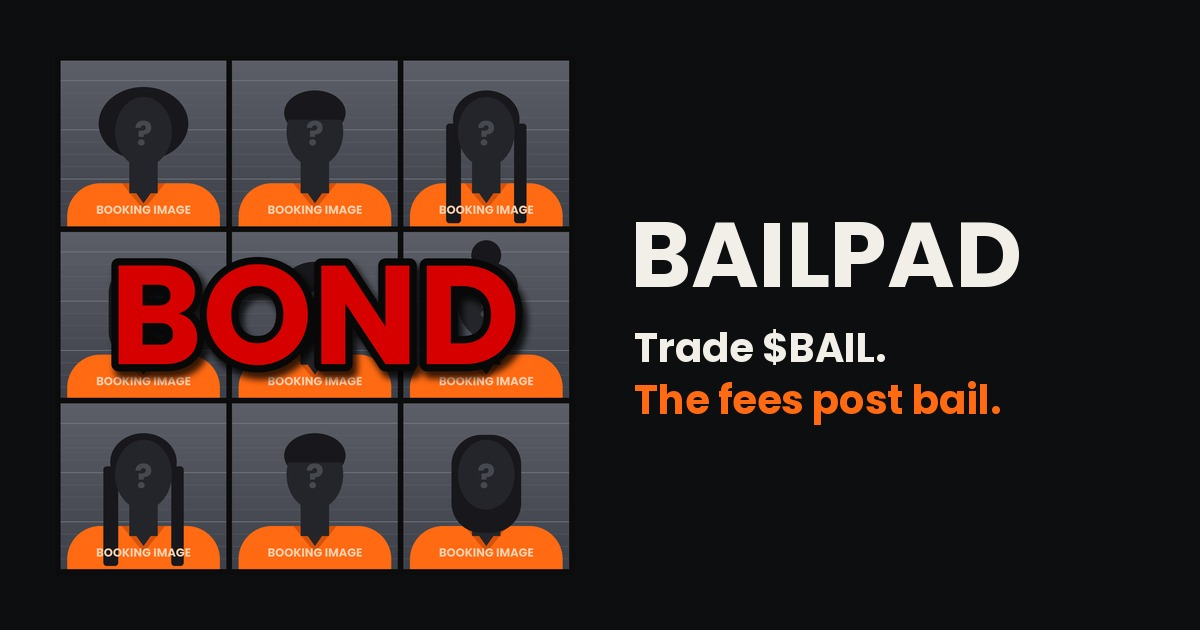
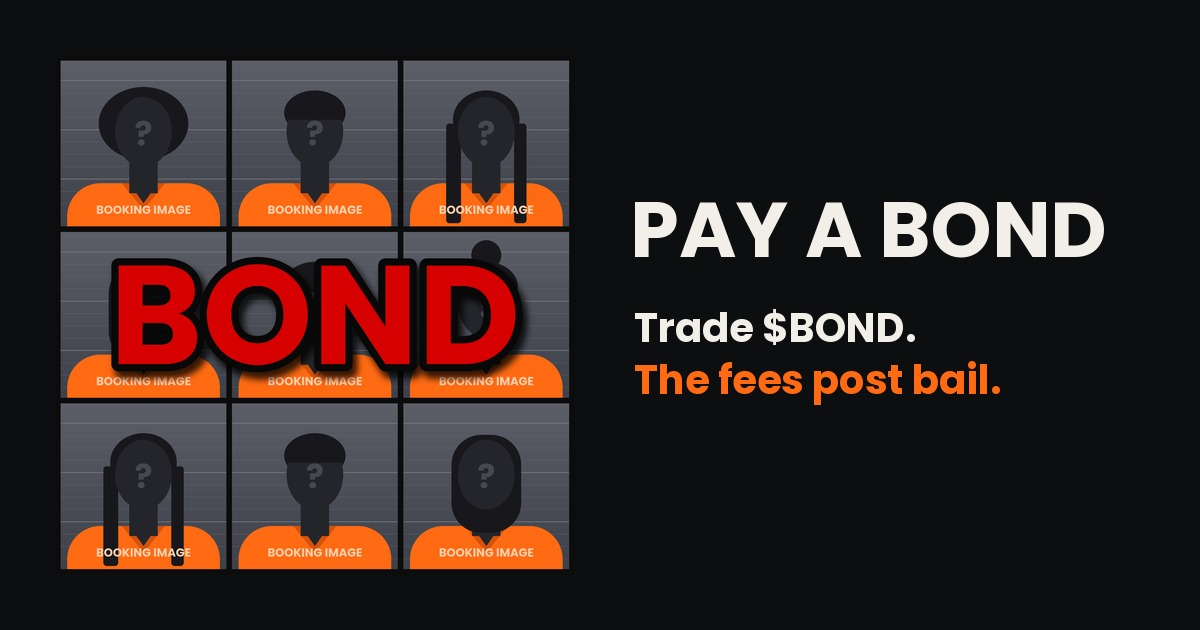
Add files via upload

Changed region(s): [[0.5242, 0.3016, 0.925, 0.4524], [0.5242, 0.4825, 0.8325, 0.6635]]

diff --git a/index.html b/index.html
@@ -3,10 +3,10 @@
 <head>
 <meta charset="utf-8">
 <meta name="viewport" content="width=device-width,initial-scale=1,viewport-fit=cover">
-<title>BailPad</title>
-<meta name="description" content="$BAIL creator fees post bail. Public wallet, every bond receipted.">
-<meta property="og:title" content="BailPad">
-<meta property="og:description" content="$BAIL creator fees post bail. Public wallet, every bond receipted.">
+<title>Pay A Bond</title>
+<meta name="description" content="$BOND creator fees post bail. Public wallet, every bond receipted.">
+<meta property="og:title" content="Pay A Bond">
+<meta property="og:description" content="$BOND creator fees post bail. Public wallet, every bond receipted.">
 <meta property="og:image" content="og.jpg">
 <meta name="twitter:card" content="summary_large_image">
 <link rel="icon" href="pfp.png">
@@ -160,9 +160,9 @@ footer p{max-width:70ch}
 
 <nav>
   <div class="wrap">
-    <a class="brand" href="#top"><img src="pfp.png" alt=""><b>BailPad</b></a>
-    <div class="navlinks"><a href="#how">How it works</a><a href="#receipts">Receipts</a><a href="#rules">Rules</a><a href="#fees">Fees</a><a href="#token">$BAIL</a></div>
-    <a class="btn primary" id="navbuy" href="#token">Buy $BAIL</a>
+    <a class="brand" href="#top"><img src="pfp.png" alt=""><b>Pay A Bond</b></a>
+    <div class="navlinks"><a href="#how">How it works</a><a href="#receipts">Receipts</a><a href="#rules">Rules</a><a href="#fees">Fees</a><a href="#token">$BOND</a></div>
+    <a class="btn primary" id="navbuy" href="#token">Buy $BOND</a>
   </div>
 </nav>
 
@@ -170,17 +170,17 @@ footer p{max-width:70ch}
   <div class="wrap herogrid">
     <div>
       <span class="eyebrow">Bail fund · Solana</span>
-      <h1>Trade $BAIL.<br><em>The fees post<br>bail.</em></h1>
-      <p class="lead">Every $BAIL creator fee lands in one public wallet. That wallet pays bonds for people stuck in jail over a few hundred dollars, and every payment gets a receipt here.</p>
-      <div class="cta"><a class="btn primary" id="herobuy" href="#token">Buy $BAIL</a><a class="btn line" href="#receipts">See receipts</a></div>
+      <h1>Trade $BOND.<br><em>The fees post<br>bail.</em></h1>
+      <p class="lead">Every $BOND creator fee lands in one public wallet. That wallet pays bonds for people stuck in jail over a few hundred dollars, and every payment gets a receipt here.</p>
+      <div class="cta"><a class="btn primary" id="herobuy" href="#token">Buy $BOND</a><a class="btn line" href="#receipts">See receipts</a></div>
       <div class="facts">
-        <div><b>100%</b><span>of creator fees to the bail wallet</span></div>
+        <div><b>100%</b><span>of creator fees to the bond wallet</span></div>
         <div><b>Public</b><span>wallet anyone can check</span></div>
         <div><b>Receipt</b><span>posted for every bond paid</span></div>
       </div>
     </div>
-    <article class="record" aria-label="Bail wallet">
-      <div class="rh"><span class="rid">BAIL WALLET</span><span class="pill" id="wState"><span class="dot"></span>Opens at launch</span></div>
+    <article class="record" aria-label="Bond wallet">
+      <div class="rh"><span class="rid">BOND WALLET · DEV FEES LAND HERE</span><span class="pill" id="wState"><span class="dot"></span>Opens at launch</span></div>
       <div class="stats">
         <div class="wide"><span>In the wallet now</span><b id="wBal">—</b><small id="wSol"></small></div>
         <div><span>Bonds paid</span><b id="wCount">—</b></div>
@@ -195,8 +195,8 @@ footer p{max-width:70ch}
   <div class="wrap">
     <div class="sechead"><span class="eyebrow">How it works</span><h2>From trade to release</h2></div>
     <ol class="steps">
-      <li><span class="n">STEP 01</span><h3>People trade $BAIL</h3><p>Every buy and sell on pump.fun pays a creator fee.</p></li>
-      <li><span class="n">STEP 02</span><h3>Fees hit the bail wallet</h3><p>100% of creator fees go to one public Solana wallet.</p></li>
+      <li><span class="n">STEP 01</span><h3>People trade $BOND</h3><p>Every buy and sell on pump.fun pays a creator fee.</p></li>
+      <li><span class="n">STEP 02</span><h3>Fees hit the bond wallet</h3><p>100% of creator fees go to one public Solana wallet.</p></li>
       <li><span class="n">STEP 03</span><h3>A bond gets paid</h3><p>The wallet pays the bond through the clerk of court or a licensed bondsman.</p></li>
       <li><span class="n">STEP 04</span><h3>The receipt goes up</h3><p>Date, amount, county and the transaction, posted below. No names.</p></li>
     </ol>
@@ -205,7 +205,7 @@ footer p{max-width:70ch}
 
 <section class="sec" id="receipts">
   <div class="wrap">
-    <div class="sechead"><span class="eyebrow">Receipts</span><h2>Bonds paid</h2><p class="lead">Every payment out of the bail wallet. Names are never posted.</p></div>
+    <div class="sechead"><span class="eyebrow">Receipts</span><h2>Bonds paid</h2><p class="lead">Every payment out of the bond wallet. Names are never posted.</p></div>
     <div class="ledger">
       <div class="row head"><span>Date</span><span class="c2">County</span><span class="c3">Amount</span><span>Transaction</span></div>
       <div id="rows"></div>
@@ -222,7 +222,6 @@ footer p{max-width:70ch}
       <div class="tcard"><h3>Paid to the court</h3><p>Payments go to the clerk of court or a licensed bondsman, never as cash to a person.</p></div>
       <div class="tcard"><h3>Public wallet</h3><p>Anyone can check the balance and every transaction on Solana.</p></div>
       <div class="tcard"><h3>Receipt for every bond</h3><p>Each payment is posted with its date, amount, county and transaction.</p></div>
-      <div class="tcard"><h3>No names, no photos</h3><p>Nobody's arrest is ever posted. Help shouldn't follow someone around.</p></div>
       <div class="tcard"><h3>Small bonds first</h3><p>The wallet goes furthest on the low bonds that keep people inside for weeks.</p></div>
     </div>
   </div>
@@ -233,16 +232,16 @@ footer p{max-width:70ch}
     <div class="sechead"><span class="eyebrow">Fees</span><h2>Where the fees go</h2></div>
     <div class="feegrid">
       <div class="panel">
-        <div class="split">Bail wallet · 100% of creator fees</div>
+        <div class="split">Bond wallet · 100% of creator fees</div>
         <div class="legend">
-          <div><span>Creator fees</span><span>100% to the bail wallet</span></div>
+          <div><span>Creator fees</span><span>100% to the bond wallet</span></div>
           <div><span>Wallet pays</span><span>Clerk of court or licensed bondsman</span></div>
           <div><span>Every payment</span><span>Receipt posted on this page</span></div>
         </div>
       </div>
       <div class="panel calc">
         <span class="pill">Estimate</span>
-        <label for="vol">Daily $BAIL volume <output id="vv">$50,000</output></label>
+        <label for="vol">Daily $BOND volume <output id="vv">$50,000</output></label>
         <input type="range" id="vol" min="5000" max="1000000" step="5000" value="50000">
         <label for="fee">Creator fee rate <output id="fv">0.30%</output></label>
         <input type="range" id="fee" min="0.05" max="1" step="0.05" value="0.3">
@@ -260,7 +259,7 @@ footer p{max-width:70ch}
     <div class="faq">
       <details><summary>Who gets helped?</summary><p>People held on low bonds. Payments go straight to the court or a licensed bondsman.</p></details>
       <details><summary>Why no names?</summary><p>An arrest is not a conviction, and posting it on a coin site would follow people long after they're out. Receipts show the date, amount, county and transaction only.</p></details>
-      <details><summary>Can I check the money?</summary><p>Yes. The bail wallet is public on Solana, and the balance on this page is read from it live.</p></details>
+      <details><summary>Can I check the money?</summary><p>Yes. The bond wallet is public on Solana, and the balance on this page is read from it live.</p></details>
       <details><summary>What happens to bail money after the case?</summary><p>When a court returns a bond at the end of a case, it goes back into the wallet and pays the next one.</p></details>
     </div>
   </div>
@@ -268,18 +267,18 @@ footer p{max-width:70ch}
 
 <section class="sec" id="token">
   <div class="wrap tok">
-    <img src="pfp.png" alt="$BAIL">
+    <img src="pfp.png" alt="$BOND">
     <div>
       <span class="eyebrow">The token</span>
-      <h2 style="margin-top:14px">$BAIL</h2>
-      <p class="lead" style="margin-top:14px">Every trade pays a creator fee, and every creator fee goes to the bail wallet.</p>
+      <h2 style="margin-top:14px">$BOND</h2>
+      <p class="lead" style="margin-top:14px">Every trade pays a creator fee, and every creator fee goes to the bond wallet.</p>
       <div class="ca"><code id="ca">Contract address posts at launch</code><button id="copy" type="button">Copy</button></div>
       <div class="cta" style="margin-top:0"><a class="btn primary" id="buy" target="_blank" rel="noopener">Buy on pump.fun</a><a class="btn line" id="chart" target="_blank" rel="noopener">Chart</a><a class="btn line" id="x" target="_blank" rel="noopener">X</a></div>
     </div>
   </div>
 </section>
 
-<footer><div class="wrap"><span>BailPad · $BAIL</span><p>Not legal or financial advice. Memecoins are speculative and can go to zero. The bail wallet pays bonds only, through a court or licensed bondsman.</p></div></footer>
+<footer><div class="wrap"><span>Pay A Bond · $BOND</span><p>Not legal or financial advice. Memecoins are speculative and can go to zero. The bond wallet pays bonds only, through a court or licensed bondsman.</p></div></footer>
 
 <script>
 (()=>{
@@ -305,8 +304,10 @@ if(C.WALLET){
   if(!R.length){$('#wCount').textContent='0';$('#wTotal').textContent='$0'}
   const load=async()=>{
     try{
+      const rpcs=[C.RPC,'https://solana-rpc.publicnode.com','https://api.mainnet-beta.solana.com'].filter(Boolean);
+      const bal=async()=>{for(const u of rpcs){try{const r=await fetch(u,{method:'POST',headers:{'Content-Type':'application/json'},body:JSON.stringify({jsonrpc:'2.0',id:1,method:'getBalance',params:[a]})});const j=await r.json();if(j&&j.result)return j}catch(e){}}throw new Error('rpc')};
       const [b,p]=await Promise.all([
-        fetch(C.RPC||'https://api.mainnet-beta.solana.com',{method:'POST',headers:{'Content-Type':'application/json'},body:JSON.stringify({jsonrpc:'2.0',id:1,method:'getBalance',params:[a]})}).then(r=>r.json()),
+        bal(),
         fetch('https://lite-api.jup.ag/price/v3?ids=So11111111111111111111111111111111111111112').then(r=>r.json()).catch(()=>({}))
       ]);
       const sol=(b.result?.value||0)/1e9;const px=+(p.So11111111111111111111111111111111111111112?.usdPrice||0);
@@ -314,7 +315,7 @@ if(C.WALLET){
       $('#wSol').textContent=sol.toFixed(3)+' SOL';
     }catch(e){}
   };
-  load();setInterval(load,30000);
+  load();setInterval(load,15000);
 }
 
 /* calc */
@@ -323,7 +324,7 @@ function calc(){
   $('#vv').textContent=usd(v);$('#fv').textContent=f.toFixed(2)+'%';$('#bv').textContent=usd(b);
   const day=v*f/100;const n=day/b;
   $('#out').textContent=(n>=1?n.toFixed(1):n.toFixed(2))+' bonds / day';
-  $('#outs').textContent=`${usd(day)} a day into the bail wallet at these numbers`;
+  $('#outs').textContent=`${usd(day)} a day into the bond wallet at these numbers`;
 }
 ['#vol','#fee','#bond'].forEach(s=>$(s).addEventListener('input',calc));calc();
 

diff --git a/config.js b/config.js
@@ -1,11 +1,11 @@
 window.BAIL_CFG = {
-  NAME: "BailPad",
-  TICKER: "BAIL",
+  NAME: "Pay A Bond",
+  TICKER: "BOND",
   CA: "4EYVX8Pj9H4Ym2h42cviceM6yW8A2kyCcNxctpvApump",
   X: "",
   BUY: "",
   CHART: "",
-  // The public wallet that receives $BAIL creator fees and pays bonds.
+  // The public wallet that receives $BOND creator fees and pays bonds.
   WALLET: "2aDX1JoAHBhiHp9Tkj3TnDLhahqCRYHvdk3ZNDyMsmKD",
   RPC: "https://api.mainnet-beta.solana.com",
   // Add one line each time a bond is paid. No names.
